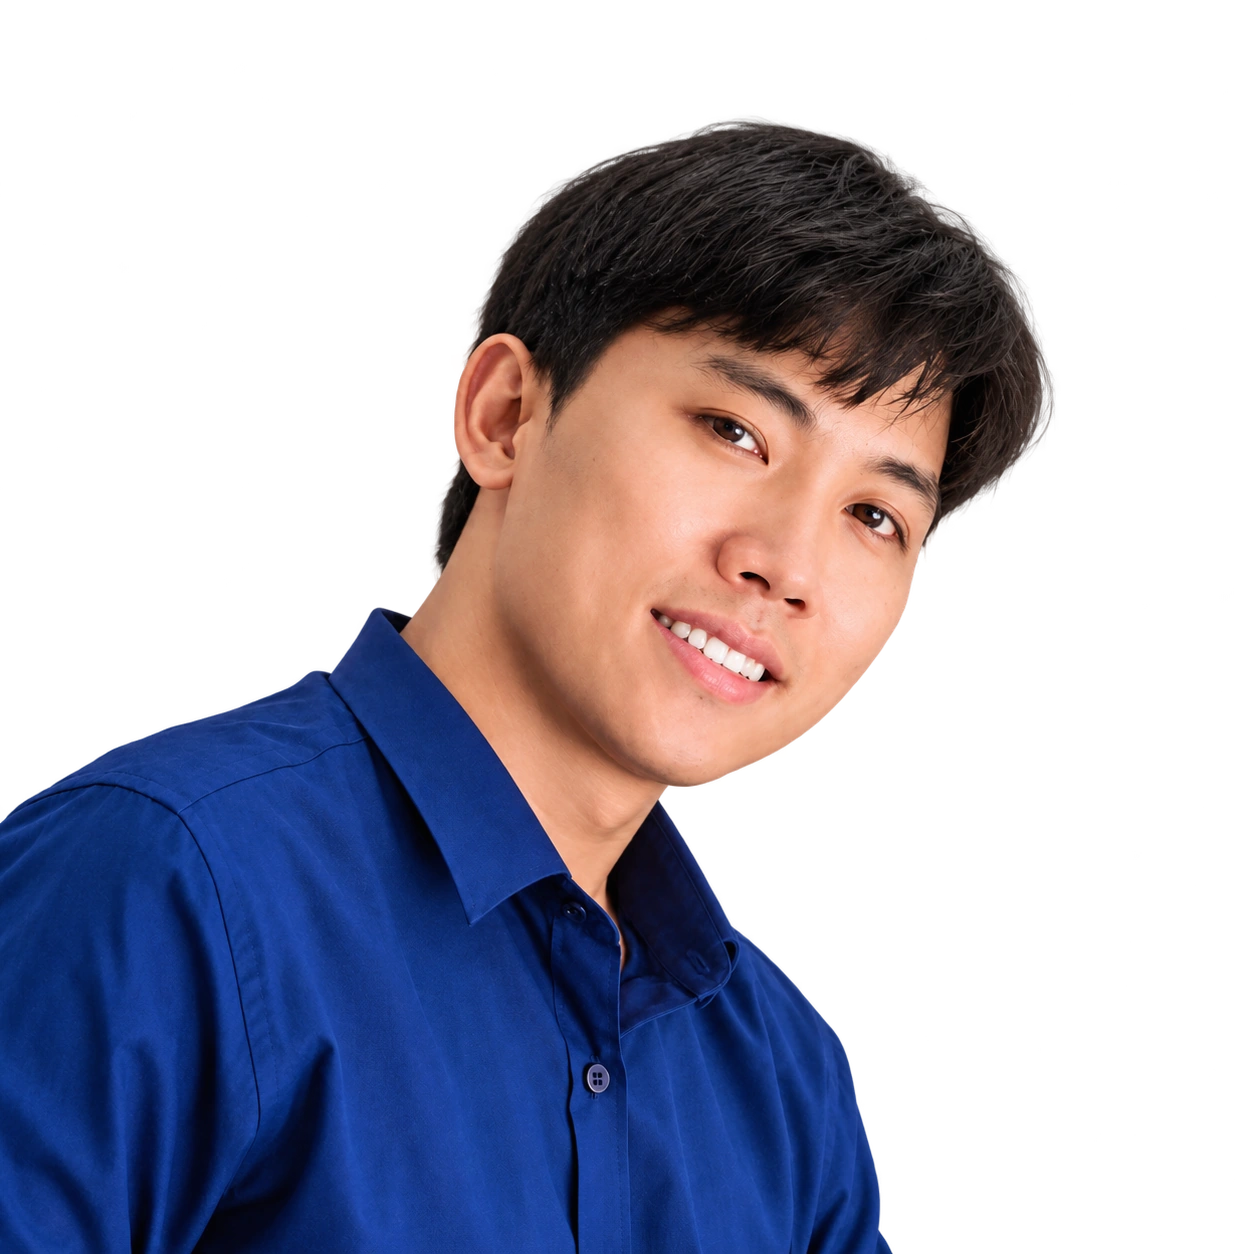
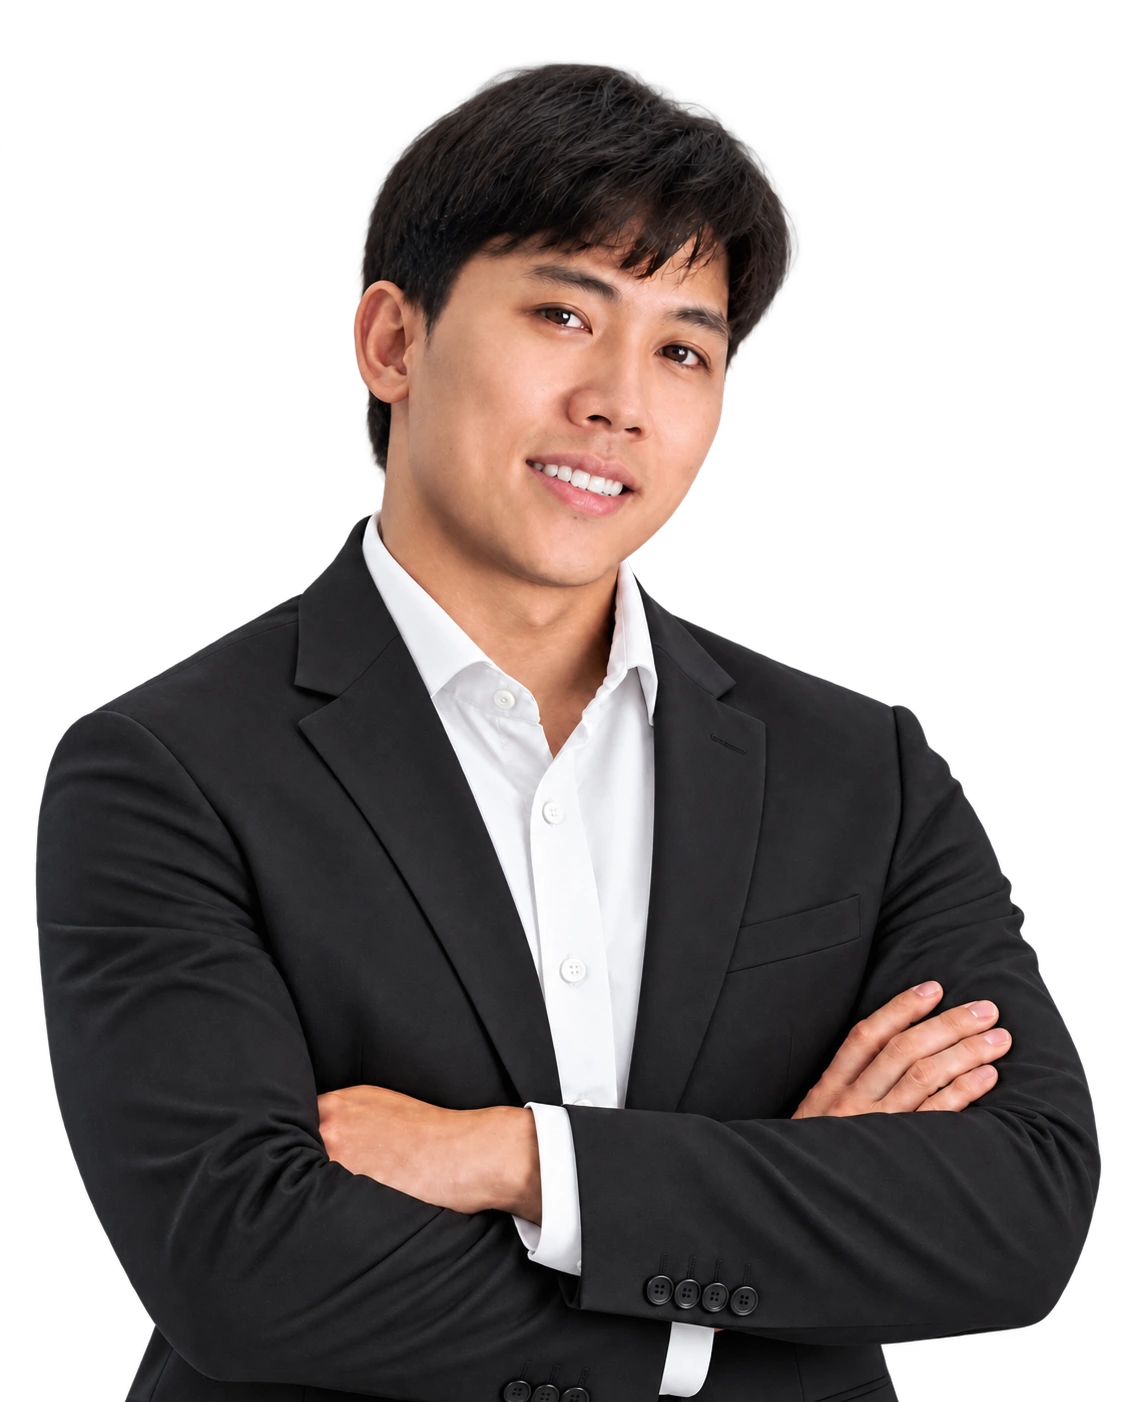
Preserve original suit portrait pose using updated facial reference

diff --git a/style.css b/style.css
@@ -66,6 +66,3 @@
 /* Shorter copy, one concise project introduction. */
 .project-story{grid-template-columns:1fr}.project-story>[hidden]{display:none}
 @media(min-width:901px){.intro h1{font-size:clamp(46px,5vw,76px)}}
-
-/* Match the new square portrait and its aligned robot layer. */
-.portrait-frame img[src="dung-portrait-new.webp"],.portrait-frame img[src="dung-robot-new.webp"]{object-fit:cover;object-position:center bottom}
